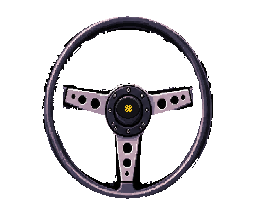
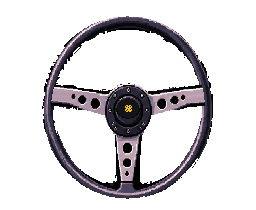
v0.75.5: raios laterais do volante da Onça GTB continuam até o aro (na arte paravam antes)
Claude-Session: https://claude.ai/code/session_01MLD9VR7gkmY4w6a9beZcp6

Changed region(s): [[0.7188, 0.4, 0.8125, 0.5143], [0.1875, 0.4, 0.2812, 0.5143]]

diff --git a/tools/ref/pumagtb_cockpit.py b/tools/ref/pumagtb_cockpit.py
@@ -366,6 +366,29 @@ def main():
     cv2.fillPoly(rm, [np.array(SPOKES[1], np.int32)], 1)
     ys_, xs_ = np.nonzero(rm)
     pass  # (o volante da GTB não tem marca nos raios)
+    # na arte os raios laterais param antes do aro (vão escuro de ~35 px): cada raio continua até o aro,
+    # seguindo a inclinação das bordas de cima e de baixo, com a coluna da chapa logo depois da ponta
+    def extend_spoke(sign):
+        X = lambda x: x if sign > 0 else 1470 - x  # noqa: E731
+        top = lambda x: 456 + (x - 548) * 6 / 62    # noqa: E731
+        bot = lambda x: 508 + (x - 548) * 4 / 62    # noqa: E731
+        SRC = 562
+        t0, b0 = top(SRC), bot(SRC)
+        for x in range(500, 559):
+            ya, yb = top(x), bot(x)
+            for y in range(int(np.floor(ya)), int(np.ceil(yb)) + 1):
+                dy = (y - RIM_IN[1]) / RIM_IN[3]
+                if abs(dy) >= 1:
+                    continue
+                rim_x = RIM_IN[0] - RIM_IN[2] * np.sqrt(1 - dy * dy)
+                if x < rim_x - 3:
+                    continue
+                f = (y - ya) / (yb - ya)
+                sy = int(round(t0 + f * (b0 - t0)))
+                wart[y, X(x)] = ww[sy, X(SRC)]
+                wheel[y, X(x)] = True
+    extend_spoke(1)
+    extend_spoke(-1)
     xs = WHEEL_C[0] + (np.arange(256) + 0.5 - PIV_N[0]) * PXW
     ys = WHEEL_C[1] + (np.arange(WROWS) + 0.5 - (PIV_N[1] + WTOP)) * PXH
     w_rgb, w_al = sample(wart, xs, ys), sample(wheel, xs, ys) & (ys < ww.shape[0])[:, None]
